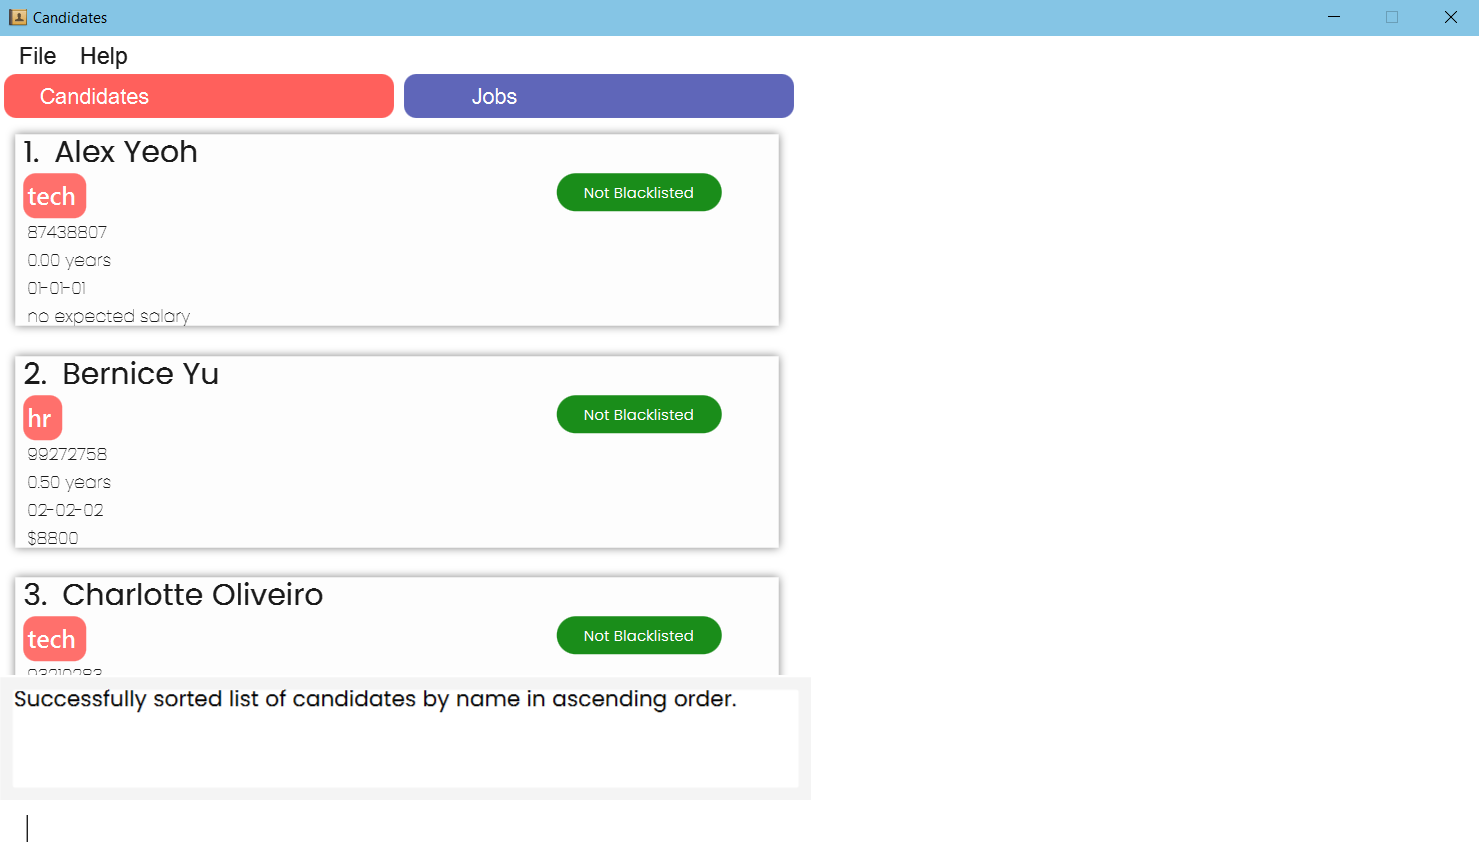
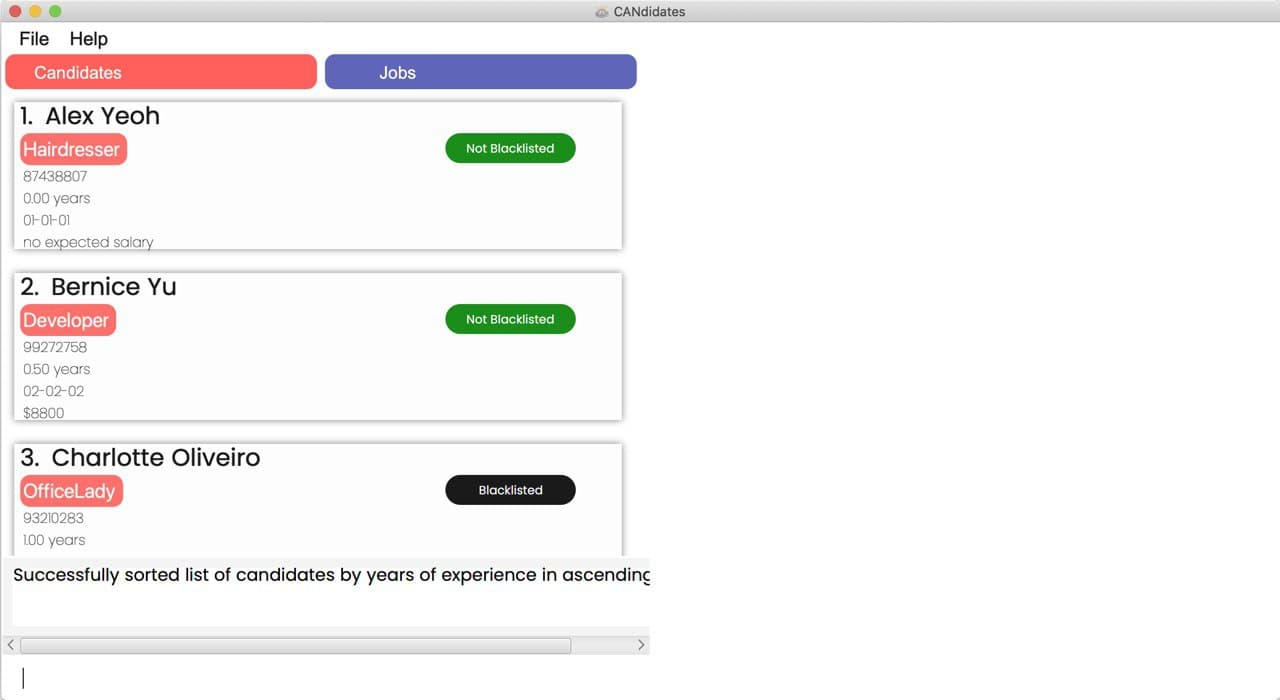
Update screenshots in UG and minor updates to DG

Changed region(s): [[0.0, 0.0, 1.0, 0.84], [0.0, 0.9, 0.5, 0.96]]

diff --git a/docs/DeveloperGuide.md b/docs/DeveloperGuide.md
@@ -690,7 +690,7 @@ Similar to UC07, except user will request to sort jobs.
 
 Similar to UC08, except user will request to view a job and CANdidates will display information of the job on the right panel instead.
 
-#### 6.3.16 Use case: UC15 - Requesting for help
+#### 6.3.17 Use case: UC15 - Requesting for help
 
 **MSS**
 
@@ -990,14 +990,18 @@ testers are expected to do more *exploratory* testing.
 2. Viewing a candidate with a 5 candidates in the candidates list.
 
     1. Test case: `view can 2`<br>
-      Expected: The information of candidate 2 would be displayed on the right panel.
+      Expected: The information of the candidate at index 2 would be displayed on the right panel.
       
     2. Test case: `view can 6`<br>
       Expected: No candidate would be displayed on the right panel. Invalid index message would be shown in the status message.
       
+<div markdown="span" class="alert alert-info">
 
+:information_source: **Note:** Viewing jobs can be tested in the same way but with its analogous commands.
 
-### 7.12 Saving data
+</div>
+
+### 7.13 Saving data
 
 1. Dealing with missing data files
 
